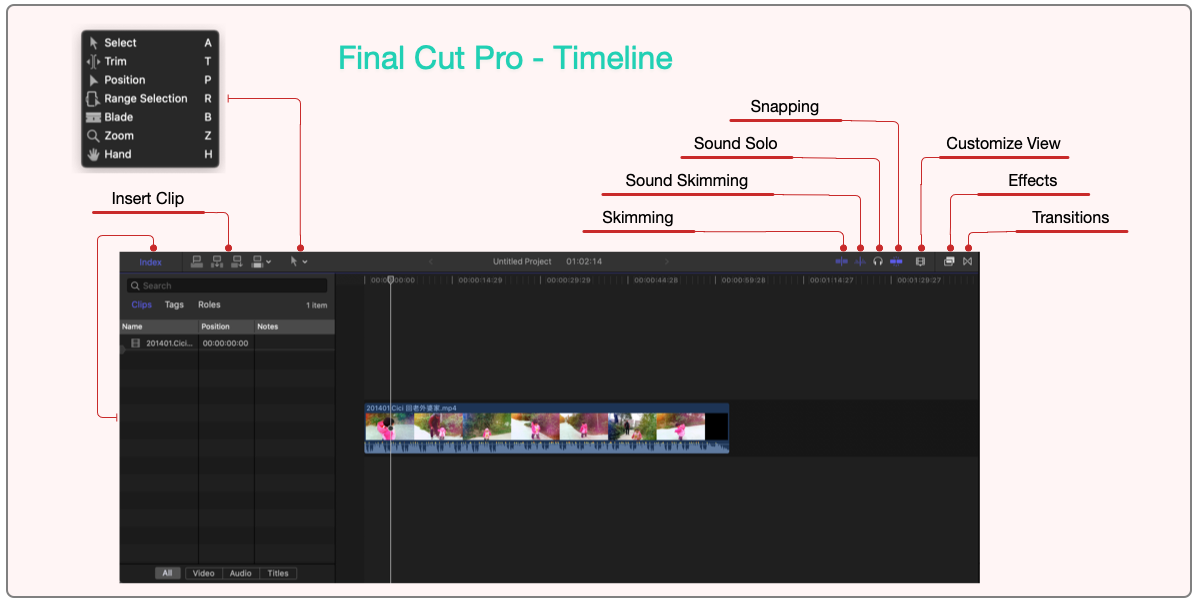
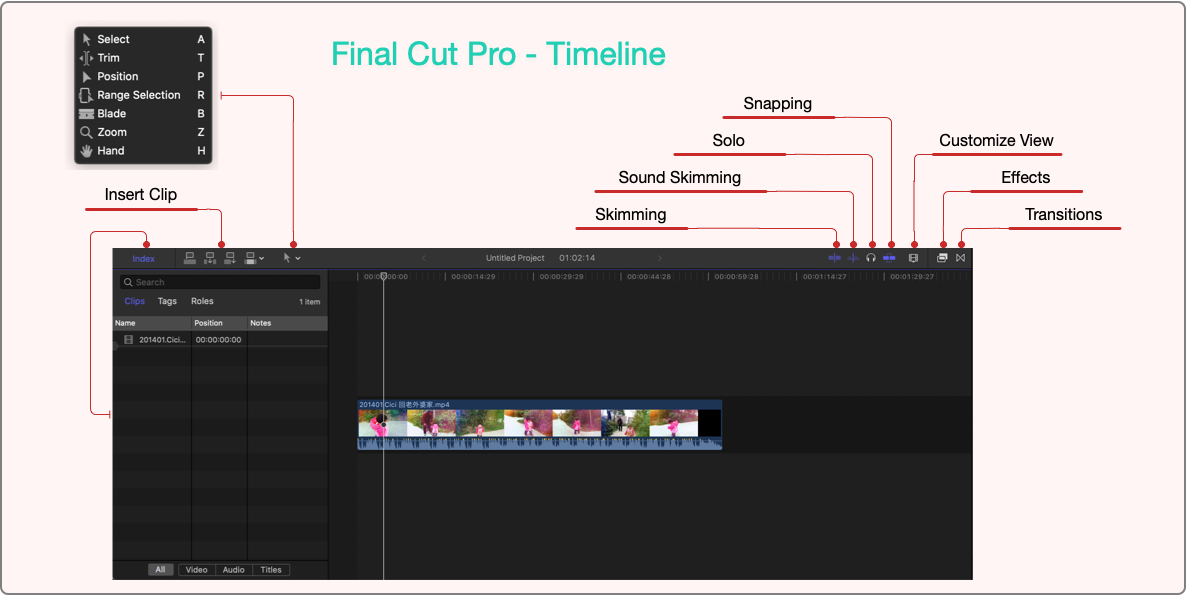
Final Cut Pro cheatsheet

diff --git a/content/wiki/final-cut-pro-cheatsheet/index.md b/content/wiki/final-cut-pro-cheatsheet/index.md
@@ -1,0 +1,96 @@
+---
+breadcrumbAncestors:
+- ../final-cut-pro/
+tags:
+- macOS
+- videoEditing
+title: Final Cut Pro Cheatsheet
+---
+
+## Timeline
+
+⚡ Mouse
+
+* <kbd>⌥⌘ Left Click</kbd>: Set anchor to the main story line.
+* <kbd>⌥ Left Click</kbd>: Set playhead on clip, or add a keyframe.
+
+⚡ Insert Clips
+
+* <kbd>Q</kbd>: Attach to storyline
+* <kbd>W</kbd>: Insert
+* <kbd>E</kbd>: Append
+* <kbd>D</kbd>, <kbd>⇧D</kbd>: Replace, Replace Backward
+* Drag and drop into an existing clip will bring up a replacement menu.
+
+
+⚡ Editing
+
+* <kbd>⌥[</kbd>, <kbd>⌥]</kbd>: trim from the beginning, trim to the end.
+* <kbd>⌥\\</kbd>: Leave only the range
+* <kbd>⌘B</kbd>, <kbd>⇧⌘B</kbd>: Split
+* <kbd>⌥G</kbd>: Create compound clip.
+* <kbd>P</kbd>: Create gap, or use <kbd>⌦</kbd> to delete a clip and leave the gap.
+
+⚡ Playback
+
+* <kbd>V</kbd>: Enable or disable a clip.
+* <kbd>J</kbd>, <kbd>K</kbd>, <kbd>L</kbd>: Quick playback.
+	* Repeat <kbd>J</kbd> or <kbd>L</kbd> to increase playback speed.
+	* Play frame by frame: Hold <kbd>K</kbd>, then press <kbd>J</kbd> or <kbd>L</kbd>.
+* Hold <kbd>J</kbd> or <kbd>L</kbd> while pressing <kbd>K</kbd>.
+* <kbd>/</kbd>: Play Range
+* <kbd>⇧?</kbd>: Play Around
+* <kbd>⌘L</kbd>: Loop Playback
+
+## Audio
+
+* Select multiple clips and right click to create a synchronized clip.
+* Use range tool to quickly adjust volume of a portion.
+* Drag horizontal on edge to fade in/out, right click to choose fade curve.
+* <kbd>⌃+</kbd>, <kbd>⌃-</kbd>: Adjust Volume
+
+## Editing Tools
+
+* <kbd>A</kbd> Arrow: Double click edge or transition to activate Trimming or Transition Editor.
+* <kbd>T</kbd> Trim: Scroll clip, change edge between two clips
+* <kbd>P</kbd> Position: Overwrite clip, create gap.
+* <kbd>R</kbd> Range: quick apply effect, adjust volume on a range. It is the same with the range marked by <kbd>I</kbd> and <kbd>O</kbd>.
+* <kbd>B</kbd> Blade: Rarely used, use <kbd>⌘B</kbd> and <kbd>⇧⌘B</kbd> instead.
+* <kbd>Z</kbd> Zoom: Use <kbd>⇧Z</kbd> to fit the timeline to window.
+* <kbd>H</kbd> Hand: Pan
+
+## Transitions
+
+* <kbd>⌘T</kbd>: Add default transition, which can be changed by right clicking on a transition in the browser.
+* Shoot extra slices to make transition work.
+
+⚡ General transitions
+
+* Blurs: Gaussian
+* Dissolves: Cross Dissolve, Fade to Color
+* Lights: Bloom
+* Movements: Slide
+
+# Titles and Generators
+
+* In Viewer View menu, select Show Title/Action Safe Zones.
+	* Inner: title safe
+	* Outer: action safe
+* <kbd>Q</kbd>: Insert title and generator into the marked range.
+
+A example work flow: Mark the range using I and O, then choose the title and insert it via <kbd>Q</kbd>.
+
+## Browser
+
+Don’t use Youtube/Vimeo Preset, export master file and compress with Handbrake later.
+
+⚡ Rate Clips
+
+* <kbd>F</kbd>: Favorite
+* <kbd>⌫</kbd>: Reject
+* <kbd>U</kbd>: Unrate
+
+## Inspector
+
+* <kbd>⌘6</kbd>: Color Inspector
+* <kbd>⌘C</kbd> and then Paste Attributes.

diff --git a/content/wiki/final-cut-pro/index.md b/content/wiki/final-cut-pro/index.md
@@ -10,3 +10,4 @@ title: Final Cut Pro
 ## Index
 
 * {{< rellink path="../final-cut-pro-interface/" >}}
+* {{< rellink path="../final-cut-pro-cheatsheet/" >}}
